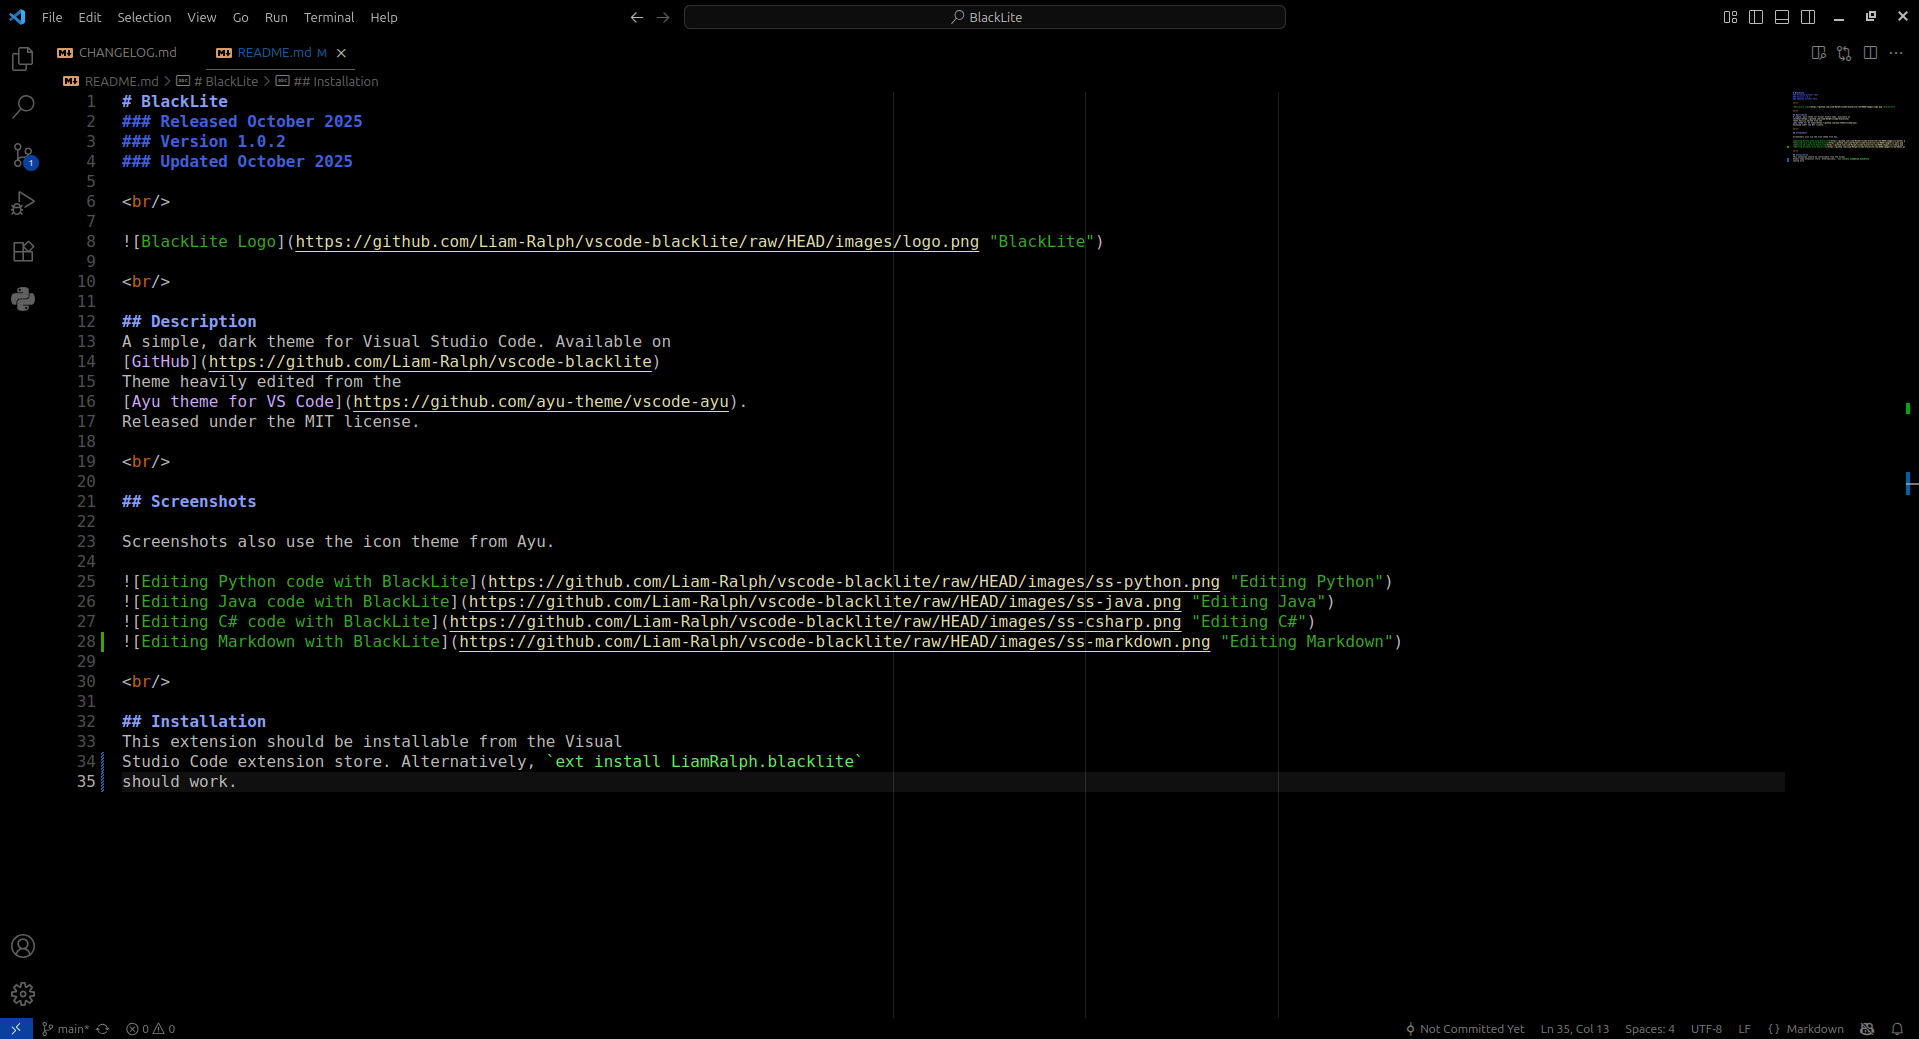
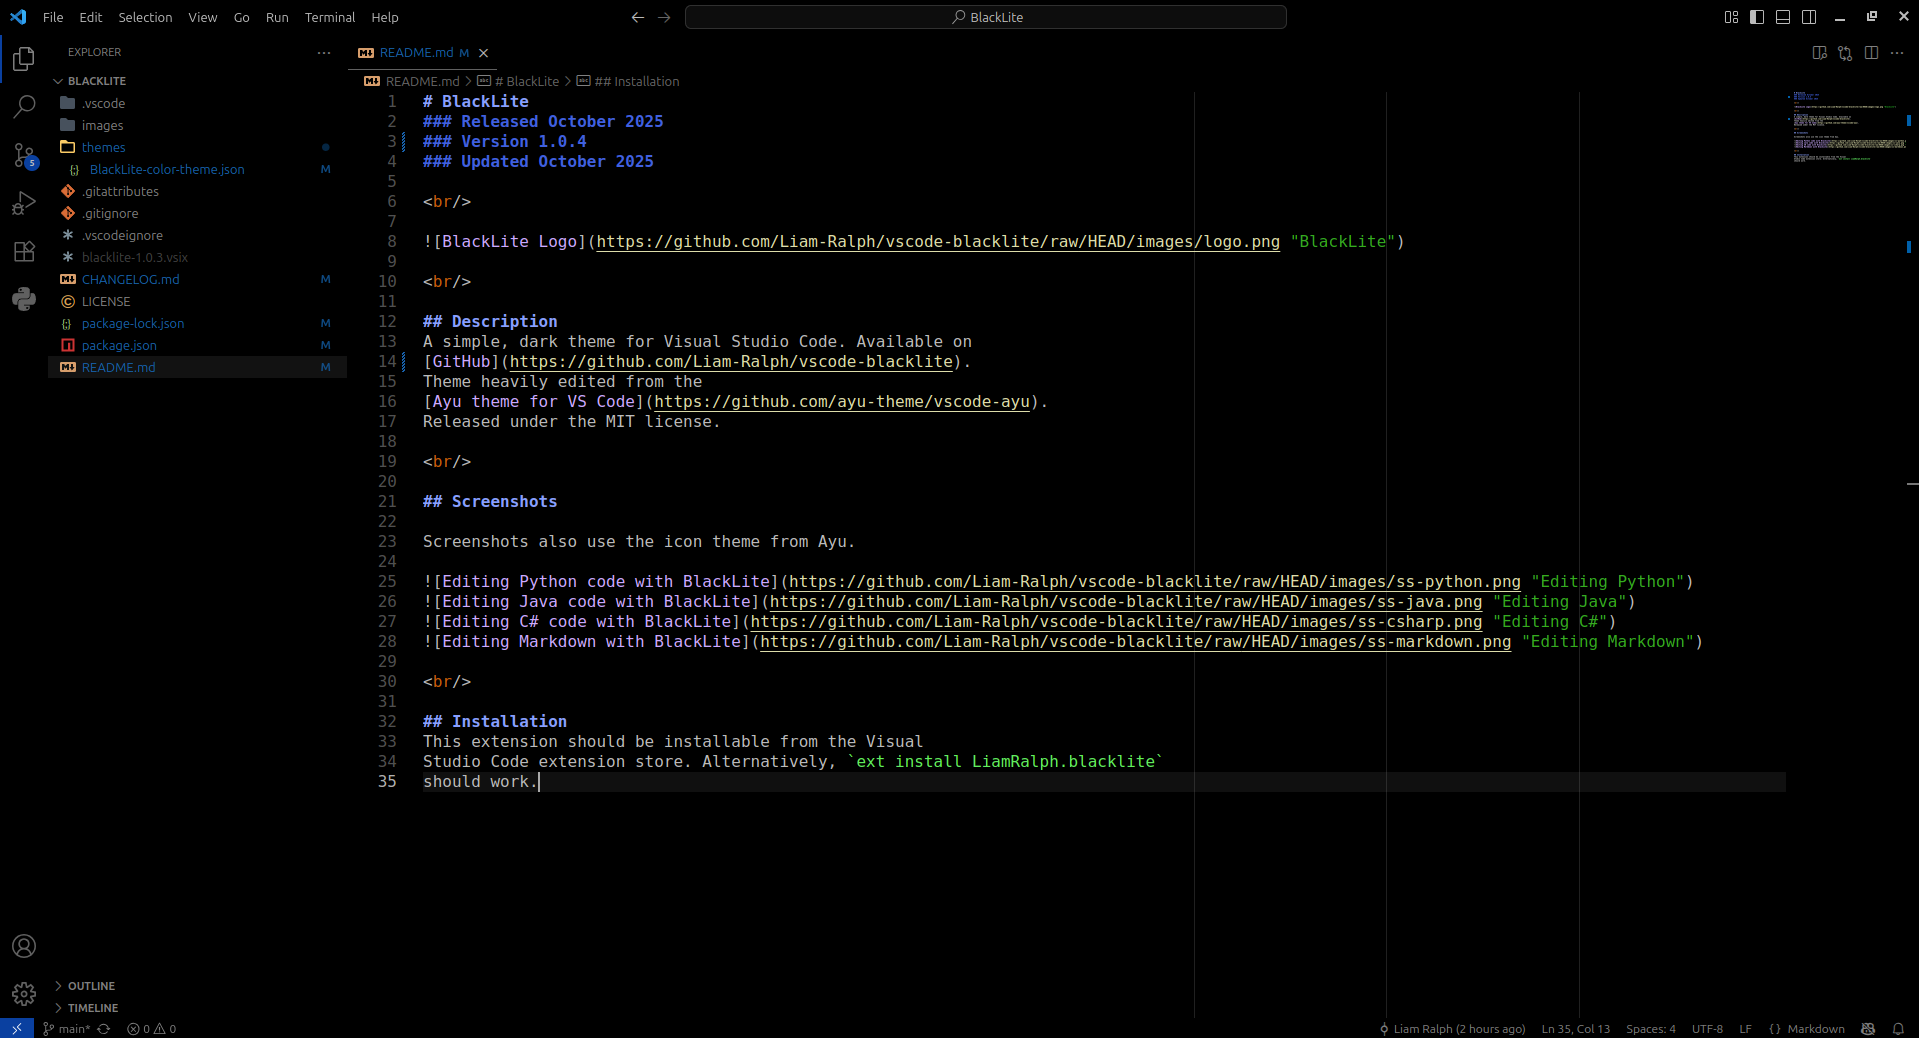
change workbench link colours, github link

diff --git a/README.md b/README.md
@@ -1,17 +1,17 @@
 # BlackLite
 ### Released October 2025
-### Version 1.0.3
+### Version 1.0.4
 ### Updated October 2025
 
 <br/>
 
-![BlackLite Logo](https://github.com/Liam-Ralph/vscode-blacklite/raw/HEAD/images/logo.png "BlackLite")
+![BlackLite Logo](https://github.com/Liam-Ralph/blacklite/raw/HEAD/images/logo.png "BlackLite")
 
 <br/>
 
 ## Description
 A simple, dark theme for Visual Studio Code. Available on
-[GitHub](https://github.com/Liam-Ralph/vscode-blacklite)
+[GitHub](https://github.com/Liam-Ralph/vscode-blacklite).
 Theme heavily edited from the
 [Ayu theme for VS Code](https://github.com/ayu-theme/vscode-ayu).
 Released under the MIT license.
@@ -22,10 +22,10 @@ Released under the MIT license.
 
 Screenshots also use the icon theme from Ayu.
 
-![Editing Python code with BlackLite](https://github.com/Liam-Ralph/vscode-blacklite/raw/HEAD/images/ss-python.png "Editing Python")
-![Editing Java code with BlackLite](https://github.com/Liam-Ralph/vscode-blacklite/raw/HEAD/images/ss-java.png "Editing Java")
-![Editing C# code with BlackLite](https://github.com/Liam-Ralph/vscode-blacklite/raw/HEAD/images/ss-csharp.png "Editing C#")
-![Editing Markdown with BlackLite](https://github.com/Liam-Ralph/vscode-blacklite/raw/HEAD/images/ss-markdown.png "Editing Markdown")
+![Editing Python code with BlackLite](https://github.com/Liam-Ralph/blacklite/raw/HEAD/images/ss-python.png "Editing Python")
+![Editing Java code with BlackLite](https://github.com/Liam-Ralph/blacklite/raw/HEAD/images/ss-java.png "Editing Java")
+![Editing C# code with BlackLite](https://github.com/Liam-Ralph/blacklite/raw/HEAD/images/ss-csharp.png "Editing C#")
+![Editing Markdown with BlackLite](https://github.com/Liam-Ralph/blacklite/raw/HEAD/images/ss-markdown.png "Editing Markdown")
 
 <br/>
 

diff --git a/CHANGELOG.md b/CHANGELOG.md
@@ -1,14 +1,20 @@
 ## Version 1.0.3 (October 2025)
 
- - Update README.md.
- - Add screenshot for markdown.
+ - Changed GitHub link.
+ - Changed workbench link colours.
+ - Changed Markdown screenshot.
+
+## Version 1.0.3 (October 2025)
+
+ - Updated README.md.
+ - Added screenshot for markdown.
 
 ## Version 1.0.2 (October 2025)
 
- - Edit markdown.
- - Add logo, screenshots.
- - Edit markdown link description colour.
- - Add keyword.type to variable type color.
+ - Edited markdown.
+ - Added logo, screenshots.
+ - Edited markdown link description colour.
+ - Added keyword.type to variable type color.
 
 ## Version 1.0.1 (October 2025)
 
